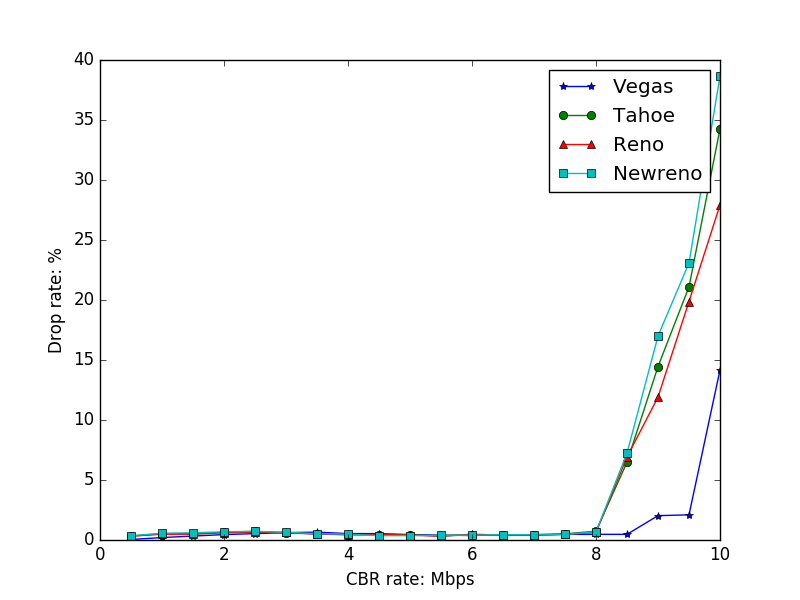
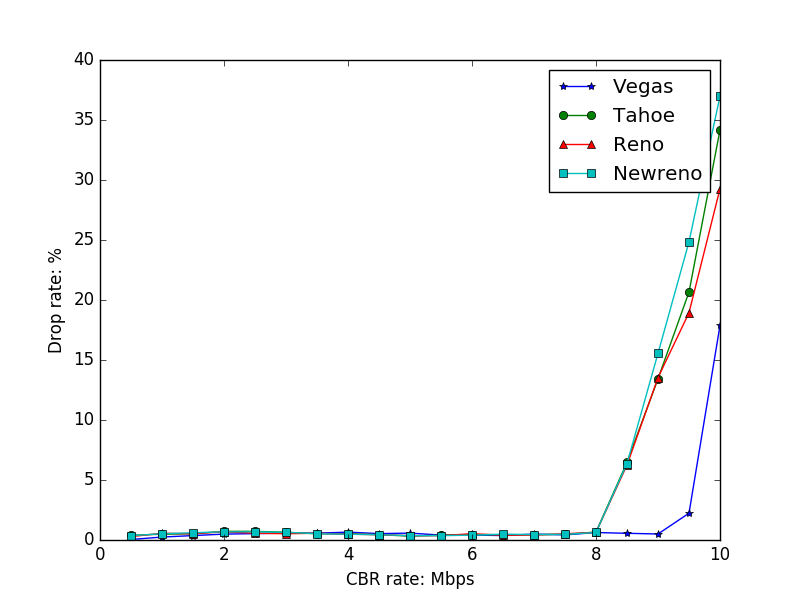
vegas packet size

diff --git a/p3/exp1/run_exp1.py b/p3/exp1/run_exp1.py
@@ -62,7 +62,10 @@ def runExp1(cbr_start, cbr_end, step):
             else:
                 call(["ns", "experiment1.tcl", TCPType[typeName], str(i*step), fname,
                     str(2.0), str(10.0), str(1000)])
-            t, d, l = statistic(fname, 8.0, 1000)
+            if typeName == "Agent/TCP/Vegas":
+                t, d, l = statistic(fname, 8.0, 1040)
+            else:
+                t, d, l = statistic(fname, 8.0, 1000)
             throughput.append(t)
             drop.append(d)
             latency.append(l)
